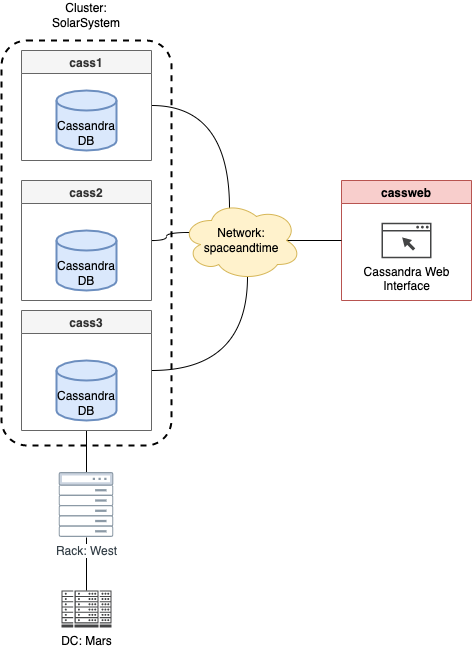
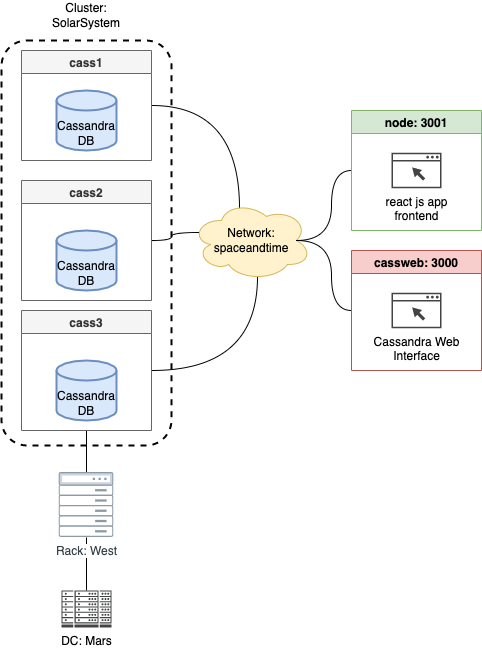
change port of react app and update documentation

diff --git a/README.md b/README.md
@@ -9,7 +9,11 @@
 
 ## Documentation
 
-### How to run it manually
+### Architecture
+
+![](architecture.png)
+
+### Makefile
 
 The Makefile allows to run different setups:
 
@@ -22,10 +26,13 @@ make neo4j-com
 
 # Run Cassandra Cluster with thrre nodes
 make cass
-
 ```
 
-### Cassandra Details
+### React Frontend
+
+The frontend is build with [Create React App](https://github.com/facebook/create-react-app).
+
+### Cassandra Cluster
 
 Cassandra Cluster with three nodes can be accssed via web interface at http://localhost:3000/
 
@@ -47,11 +54,7 @@ Failed to import 1 rows: ParseError - Failed to parse 5.34896E+17 : invalid lite
 'builtin_function_or_method' object has no attribute 'error'
 ```
 
-### Architecture
-
-![](architecture.png)
-
-### Problems & Lessons Learned
+## Problems & Lessons Learned
 
 * Neo4j community does not support clustering
 * Neo4j enterprise is complex to setup and we were not able to make it run
@@ -62,7 +65,7 @@ Failed to import 1 rows: ParseError - Failed to parse 5.34896E+17 : invalid lite
 * cassandra configuration yaml file and volume mapping
 * Execution of startup script to run cql commands is not working: `Connection error: ('Unable to connect to any servers', {'172.20.0.6:9042': ConnectionRefusedError(111, "Tried connecting to [('172.20.0.6', 9042)]. Last error: Connection refused")})`
 
-### Queries
+## Social Media Queries
 
 1. Auflisten der Posts, die von einem Account gemacht wurden, bzw. ihm zugeordnet wurden
 
